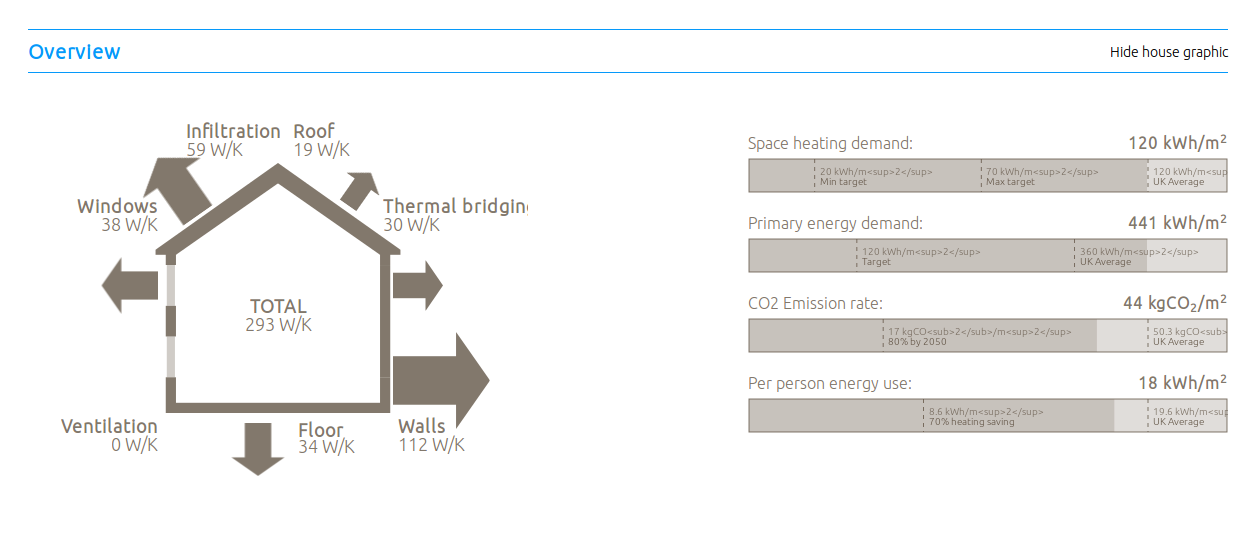
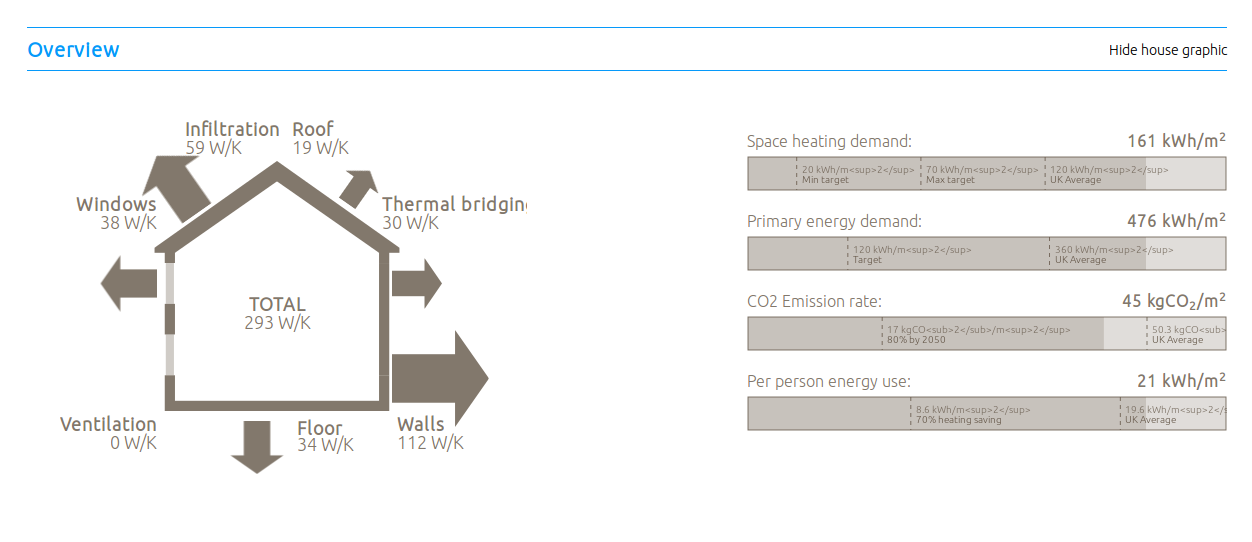
initial comparison with meter readings

diff --git a/view/sustainable-energy/building-energy-model/MyHomeEnergyPlanner.md b/view/sustainable-energy/building-energy-model/MyHomeEnergyPlanner.md
@@ -8,31 +8,37 @@ The model used is based on the 2012 version of SAP (Standard Assessment Procedur
 
 #### Example 1: Semi-detached 3 bedroom 1950 ex-council house, Wales, UK.
 
-This guide is work in progress, aiming to provide an example of using MyHomeEnergyPlanner to do a household energy assessment in order to work out the best combination of measures to apply in order to achieve the performance standards suggested in the ZeroCarbonBritian scenario.
+<img src="files/gorwel.jpg" style="width:450px; float:right; padding-left:20px; padding-bottom:20px">
+
+This guide is work in progress, aiming to provide an example of using MyHomeEnergyPlanner to carry out a household energy assessment in order to work out the best combination of measures to apply in order to achieve the performance standards suggested in the ZeroCarbonBritian scenario.
 
 The guide currently provides a rough overview of the initial baseline assessment entry stage. There is a lot more to add in order to really get the most out of the tool which will be added in due course.
 
 The next step is to extend it with an example of cross checking the model results with actual current energy use - from meter readings, energy and temperature monitoring.
 
+The example house is a 1950’s semi-detached 3 bedroom house in Snowdonia, North Wales, UK. The construction is brick cavity wall. The house has a good south facing aspect.
+
+It was not initially clear if the walls had cavity wall insulation and so our example assessment starts with uninsulated cavity walls and then after comparison with actual meter readings the assessment was redone with insulated cavity walls - a physical inspection is still required.
+
+<div style="clear:both"></div>
+
 ### Measuring up your home
 
-Start by drawing a floor plan of the house, this could be on paper or using a program such as paint, open office draw or a CAD package. Draw an indication of wall widths and include internal walls.
+Its useful to start by drawing a floor plan of your home. Having a floor plan diagram helps when you come back to revisit your assessment later as a reminder of which elements in the assessment relate to which walls, windows etc in the house.
 
-Measure each wall dimension without initially taking into account the window's and doors, place the dimension on the floor plan. 
+A floor plan could be drawn on paper, a graphics program, open office draw or a CAD package. 
 
-Draw the windows and doors on the floor plan and note each windows width and height.
+- Measure each wall dimension without initially taking into account the window's and doors, place the dimension on the floor plan. 
+- Draw an indication of wall widths and include internal walls.
+- Draw the windows and doors on the floor plan and note each windows width and height.
+- Label each room and note the room height.
 
-Label each room and note the room height.
-
-Here's an example floor plan, showing wall dimensions, windows and room heights. We will be using this example house throughout this guide.
-
-The example will start with an uninsulated, draughty house with single glazed windows and then explore the energy savings possible through carrying out a retrofit.
+**Floor Plan Example:**
 
 ![floor plan example](files/floorplan.png)
 
-Start in the top-left corner and work clockwise labelling each external wall with a unique name: E1, E2, E3 etc
-
-Then do the same for the windows.
+- Start in the top-left corner and work clockwise labelling each external wall with a unique name: E1, E2, E3 etc. 
+- Do the same for the windows: W1, W2, W3..
 
 ### Create a MyHomeEnergyPlanner assessment
 
@@ -106,32 +112,216 @@ Select the relevant fuel sources if using a mixture of economy 7 and standard ta
 
 **Hot water demand:** 
 
-The heating section starts with a section on hot water demand. It is possible to either use the SAP based estimate or enter your own figures here in order to achieve a more accurate result.
+The heating section starts with a section on hot water demand. Again it is possible to either use the SAP based estimate or enter your own figures here in order to achieve a more accurate result.
 
 **Space heating demand:** 
 
 Adjust the living area to cover the area for which the house is kept at the target temperature most of the time. Set the target temperature as close to the temperature achieved during the time heating is on, If your thermostat is well positioned this will likely be near the thermostat temperature.
 
+The default SAP target temperature is 21C. Clearly the predicted space heating requirement will be significantly larger than your actual consumption if the mean internal temperature assumed by the assessment is significantly higher than the actual mean internal temperature of your home. SAP assessments use a single value across all houses in order to provide a fair comparison as perceptions of comfort, affordability of heat, level's of frugality and therefore indoor temperature can change with different owners.
+
 **Heating systems:** 
 
 Add heating systems as required. Our example house has storage heaters and two wood stoves for space heating and instantaneous electric water heating. The fraction of each system can be entered in the fraction boxes and needs to add up to 1.0.
 
-The bottom of the page provides an overview of end use heating requirements. 
-
-- Hot water energy requirement 1383.95 kWh/year
-- Space heating energy requirement 11490.53 kWh/year
-
 ### 6. Fuel Requirements
 
-The final page provides an overview of all the different end use energy demands and their fuel sources and gives an opportunity to amend the fuel costs. The total modelled energy cost of our example household comes to £1512.79/year. The overview at the top provides comparative figures for space heating demand, primary energy, CO2 and per person energy use.
-
-Our example house has a space heating demand that is the same as the UK average but a higher primary energy demand due to use of storage electric heaters.
+The final page provides an overview of all the different end use energy demands and their fuel sources and gives an opportunity to amend the fuel costs. The overview at the top provides comparative figures for space heating demand, primary energy, CO2 and per person energy use.
 
 <img style="border: 2px solid #ddd" src="files/overview.png">
 
+### A1: Base-line assessment summary
+
+Key inputs and assumptions: 
+
+- Uninsulated walls
+- 21C target temperature
+- 50/50 storage heaters and wood stoves
+- Standard SAP assumptions for Lighting, Appliances and Cooking
+- Standard SAP assumptions for hot water demand
+- Standard SAP occupancy
+- Standard SAP heating profile
+
+Assessment results:
+
+- **Heat loss rate:** 293 W/K
+- **Lighting, Appliances and Cooking (LAC) electric:** 393.13+2565.84+354.11 = 3,313 kWh (9.1 kWh/d)
+- **Water heating demand (DHW):** 1,384 kWh (3.8 kWh/d)
+- **Space heating demand:** 14,540 kWh (39.8 kWh/d)
+- **Electricity:** 11,967 kWh (LAC+DHW+50% storage heaters) (32.8 kWh/d)
+- **Wood:** 2086 kg (8,553 kWh @ 85% efficiency / 4.1 kWh/kg)
+
 ### Cross checking with current energy use: meter readings, energy and temperature monitoring
 
-To be written
+With these initial modelled figures we can now check the model against actual meter readings, monitoring and estimated wood consumption to see how close they match.
+
+If the model results are very different from actual consumption we will know that we have an error in the inputs and model assumptions. The base-line assessment tried to stick to standard SAP assumptions as much as possible, several of which are known to differ greatly from actual conditions and consumption but provide a good base-line to start from, as well as helping with comparison with other households which is the intended use of SAP in Energy Performance Certificates EPC's.
+
+**Meter readings:**
+ 
+Standard tariff:
+
+    1107 kWh Aug 22th 16 →  22nd March 17 (212 days) = 5.2 kWh/d
+    1576 kWh April 18th 16 →  22nd March 17 (338 days) = 4.7 kWh/d
+    2935 kWh June 3rd 15 →  22nd March 17 (658 days) = 4.5 kWh/d
+    
+Economy 7:
+
+	  1730 kWh Aug 22th 16 →  22nd March 17 (212 days) = 8.2 kWh/d
+	  1933 kWh April 18th 16 →  22nd March 17 (338 days) = 5.7 kWh/d
+	  3568 kWh June 3rd 15 →  22nd March 17 (658 days) = 5.4 kWh/d
+	  
+Both:
+ 
+	  2837 kWh Aug 22th 16 →  22nd March 17 (212 days) = 13.4 kWh/d
+	  3509 kWh April 18th 16 →  22nd March 17 (338 days) = 10.4 kWh
+	  6503 kWh June 3rd 15 →  22nd March 17 (658 days) = 9.9 kWh/d
+
+**A rough estimate of wood consumption**
+
+	  20 weeks at x 20kg = 400
+	  15 weeks at x 15kg = 225
+	  17 weeks at x 8kg = 136
+	  Total = 761 kg
+	  
+**OpenEnergyMonitor temperature monitoring**
+
+    Living room temperature average: March 17: 16.7C
+    Kitchen temperature average: March 17: 14.6C
+    Mean internal temperature: March 17: ~15.7C
+
+**Discussion**
+
+As we can see actual consumption is significantly below the modelled consumption given the input assumptions in our base-line assessment.
+    
+- Standard LAC electricity consumption is 52% of SAP estimate.
+- Storage heater consumption is 29% of SAP estimate.
+- Electricity consumption is 31% of SAP estimate
+- Rough wood consumption estimate is 36% of SAP estimate
+- Mean internal temperature is 19.32 – 15.7 = 3.62 C less than SAP estimate
+
+Actual consumption is so low that the household almost achieves the passivhaus primary energy demand target (120 kWh/m2) at 155 kWh/m2 and the CO2 reduction target of 80% (17kgCO2/m2) at 21 kgCO2/m2. Space heating demand is 3x the passivhaus retrofit potential however the level achieved is still 40% lower than the UK average. Given the already low consumption of this house, the application of measures such as insulation and heating system changes may be of more use for improving comfort rather than achieving a large energy reduction.
+
+Going back to the difference between the model and actual consumption the temperature monitoring indicates one source of error. The actual mean internal temperature is 3.6C less than the 19.3C mean internal temperature in March calculated in the model (resulting from a 21C target temperature during heating periods).
+
+### Reducing internal temperature to match monitoring
+
+Adjusting the target temperature in the assessment to 17.4C results in a modelled mean internal temperature in the month of March of 15.7C (accounting for times where the temperature drops when the heating is not on) - matching the monitored temperature for March.
+
+Inputs and assumptions: 
+
+- Uninsulated walls
+- 17.4C target temperature (15.7C mean internal temperature)
+- 50/50 storage heaters and wood stoves
+- Standard SAP assumptions for Lighting, Appliances and Cooking
+- Standard SAP assumptions for hot water demand
+- Standard SAP occupancy
+- Standard SAP heating profile
+
+Assessment results:
+
+- **Heat loss rate:** 293 W/K
+- **Lighting, Appliances and Cooking (LAC) electric:** 393.13+2565.84+354.11 = 3,313 kWh (9.1 kWh/d)
+- **Water heating demand (DHW):** 1,384 kWh (3.8 kWh/d)
+- **Space heating demand:** 9,116 kWh (25 kWh/d)
+- **Electricity:** 11,967 kWh (LAC+DHW+50% storage heaters) (25 kWh/d)
+- **Wood:** 1308 kg (5,362 kWh @ 85% efficiency / 4.1 kWh/kg)
+
+Standard LAC electricity consumption is now 52% of SAP estimate (no change)<br>
+Storage heater consumption is 46% of SAP estimate (+17%)<br>
+Electricity consumption is 41% of SAP estimate (+10%)<br>
+Rough wood consumption estimate is 58% of SAP estimate (+22%)<br>
+
+This improvement in input has reduced our error by a fair amount but we are still a long way off. Another known error in input is lighting, appliances and cooking electricity consumption.
+
+### Using the Carbon Coop appliance and cooking list instead of the SAP calculation
+
+The assessment has so far used the SAP assumptions for lighting, appliances, cooking and hot water energy demands. These demands are all electric and all happen during standard tariff hours and so we can use the meter readings for the standard tariff to find out the actual consumption of these energy demands.
+
+- SAP calculation LAC demand: 393.13+2565.84+354.11 = 3,313 kWh (9.1 kWh/d)
+- SAP hot water demand: 1384 kWh (3.8 kWh/d)
+- SAP LAC + Hot Water: 4697 kWh (12.9 kWh/d)
+- **Meter readings standard tariff: 1716 kWh (4.7 kWh/d)**
+
+Actual consumption is 63% less than the SAP estimated demand and is therefore another known input error in the assessment model. Reducing LAC + Hot water energy input will however result in even higher space heating demand as there will be less waste heat available used in reducing space heat demand.
+
+Using the Carbon Coop appliance list interface available under the Lighting, Appliances and Cooking section its possible to build a list of appliances in the home as shown in the following example:
+
+<img style="border: 2px solid #ddd" src="files/8-carboncoopappliancelist.png">
+
+The result for our example home came to: Lighting: 393 kWh, Appliances: 557 kWh and Cooking 372 kWh but then in order to meet the same electricity consumption quantity recorded with meter readings, hot water heating demand needed to be reduced from 1384 kWh down to 408 kWh a 70% reduction - which indicates another significant discrepancy to better understand.
+
+Running the model again with amended LAC + Water heating demand.
+
+Inputs and assumptions: 
+
+- Uninsulated walls
+- 17.4C target temperature (15.7C mean internal temperature)
+- 50/50 storage heaters and wood stoves
+- Custom Lighting, Appliances and Cooking demand
+- Custom hot water demand
+- Standard SAP occupancy
+- Standard SAP heating profile
+
+Assessment results:
+
+- **Heat loss rate:** 293 W/K
+- **Lighting, Appliances and Cooking (LAC) electric:** 393.13+557.17+372 = 1322.3 kWh (3.6 kWh/d)
+- **Water heating demand (DHW):** 408 kWh (1.1 kWh/d)
+- **Space heating demand:** 10,142 kWh (27.8 kWh/d)
+- **Electricity:** 6801 kWh (LAC+DHW+50% storage heaters) (18.6 kWh/d)
+- **Wood:** 1455 kg (5,966 kWh @ 85% efficiency / 4.1 kWh/kg)
+
+Storage heater consumption is 41% of SAP estimate (-5%)<br>
+Electricity consumption is 56% of SAP estimate (+15%)<br>
+Rough wood consumption estimate is 52% of SAP estimate (-6%)<br>
+
+The total error in electricity consumption is reduced by 15% points however the error in space heating demand for electricity and wood has increased as expected.
+
+### Insulated cavity walls
+
+It was not initially clear if the walls had cavity wall insulation or not and so the first runs of the assessment above started with uninsulated cavity walls as a starting point for comparison.
+
+Given that the discrepancy between the modelled space heating demand, meter readings and wood consumption estimate is so large - one cause could be better building fabric than first assumed.
+
+The following assessment results result from setting the cavity wall U-value to 0.2 corresponding to a 100mm insulated cavity.
+
+Inputs and assumptions: 
+
+- Insulated cavity walls
+- 16.9C target temperature (15.7C mean internal temperature)
+- 50/50 storage heaters and wood stoves
+- Custom Lighting, Appliances and Cooking demand
+- Custom hot water demand
+- Standard SAP occupancy
+- Standard SAP heating profile
+
+Assessment results:
+
+- **Heat loss rate:** 198 W/K
+- **Lighting, Appliances and Cooking (LAC) electric:** 393.13+557.17+372 = 1322.3 kWh (3.6 kWh/d)
+- **Water heating demand (DHW):** 408 kWh (1.1 kWh/d)
+- **Space heating demand:** 6,043 kWh (16.6 kWh/d)
+- **Electricity:** 4752 kWh (LAC+DHW+50% storage heaters) (13.0 kWh/d)
+- **Wood:** 867 kg (3555 kWh @ 85% efficiency / 4.1 kWh/kg)
+
+Storage heater consumption is 69% of SAP estimate (+28%)
+Electricity consumption is 80% of SAP estimate (+24%)
+Rough wood consumption estimate is 88% of SAP estimate (+36%)
+
+### What if the wood estimate has a significant error.
+
+There could be a significant error in the wood consumption estimate as this was based on a rough calculation of the number of bags of wood used per week at different times of the year. We can use the model to estimate the wood consumption required if storage heater demand matched actual storage heater consumption from meter readings.
+
+- Overall space heating demand is 6,043 kWh
+- From meter readings storage heater consumption is 5.7 kWh x 365 = 2081 kWh
+- Remaining space heating requirement: 6,043 kWh - 2081 kWh = 3962 kWh
+- Wood consumption at 85% wood stove efficiency: 3962 / 0.85 = 4661 kWh
+- Wood consumption in kg at 4.1 kWh/kg: 4661 ÷ 4.1 = 1137 kg.
+
+If we under-estimated the wood consumption by a third actual consumption would match the model results which given how rough the wood consumption estimate is may not be that unlikely.
+
+Alternatively the discrepancy between the model and actual consumption could be further affected by a number of factors such as lower overall mean internal temperatures, better insulation values, window u-values. Lower party wall U-value.
 
 ### Improving the building fabric
 
